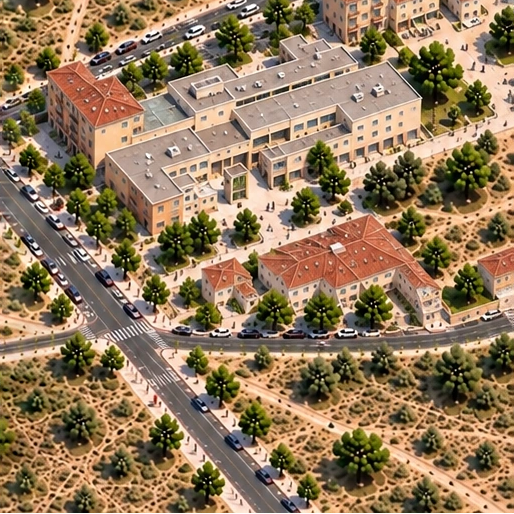
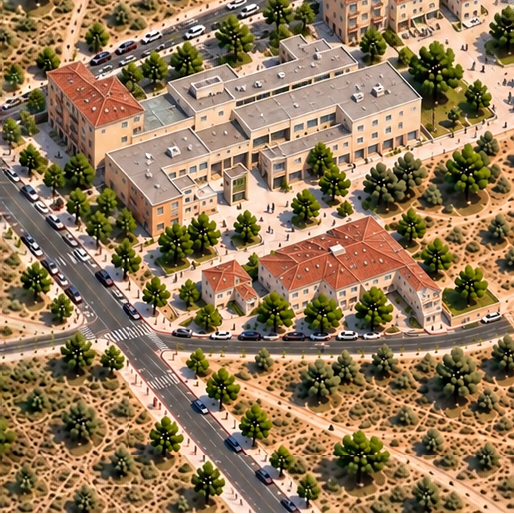
Cell 31,15: remove invented railway and station, PNOA-guided orchards

Changed region(s): [[0.249, 0.1245, 1.0, 0.9027]]

diff --git a/DECISIONS.md b/DECISIONS.md
@@ -425,4 +425,27 @@ Reanudacion autorizada por Rafa el 21 nov ("Avanza tuuuu"). Primera correccion a
 - Verificación: 0 difs fuera de soporte; cuatro bordes inspeccionados a
   resolución nativa sin costuras; tríptico actual|nuevo|PNOA conforme;
   consistencia del warp PNOA comprobada por solape (dif media 4,9).
+- Alcance de la corrección: la ELIMINACIÓN del coso está contrastada con
+  PNOA+Catastro (no existe tal edificio; hay manzanas y plazuela). El
+  reemplazo es ilustración interpretada: tipología (bloques con patios y
+  plazuela) y trazado viario contrastados con la ortofoto, pero las
+  viviendas, patios y árboles individuales generados NO están verificados
+  uno a uno contra referencia. No computa como verificación geométrica.
 - Fuentes left5–left8 actualizadas en consecuencia.
+
+## 2026-11-21 — Celda 31,15: eliminados vía férrea y estación inventadas
+
+- El atlas original dibujaba una vía con estación en el sureste (huertas),
+  sin respaldo en PNOA 2024 ni en la realidad del enclave: sustitución
+  guiada por ortofoto (edición con doble referencia atlas+PNOA).
+- Integración por soporte: componente conectada del diff suavizado,
+  dilatación 20 px, pluma 2 px. 0 difs RGBA fuera del soporte en todos los
+  niveles; alfa intacto (el soporte queda por encima del borde de encuadre
+  y=8192). Fuentes right10–right13 actualizadas.
+- Verificación: bordes internos y externos (incluido el borde del propio
+  recorte) inspeccionados a resolución nativa sin costuras; tríptico
+  antes|después|PNOA conforme.
+- Alcance: la ELIMINACIÓN de vía y estación está contrastada con PNOA
+  (ausencia en la referencia). El reemplazo (huertas, caminos de tierra,
+  lindes) es ilustración interpretada coherente con el entorno y la
+  ortofoto, NO verificación parcela a parcela.
